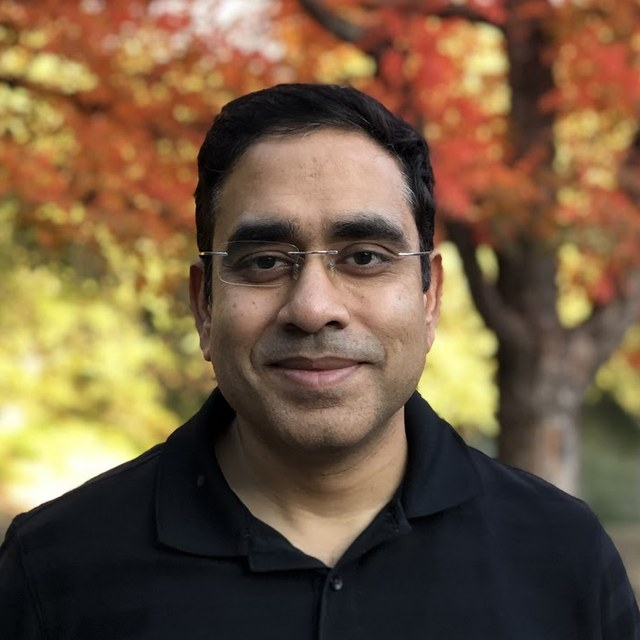
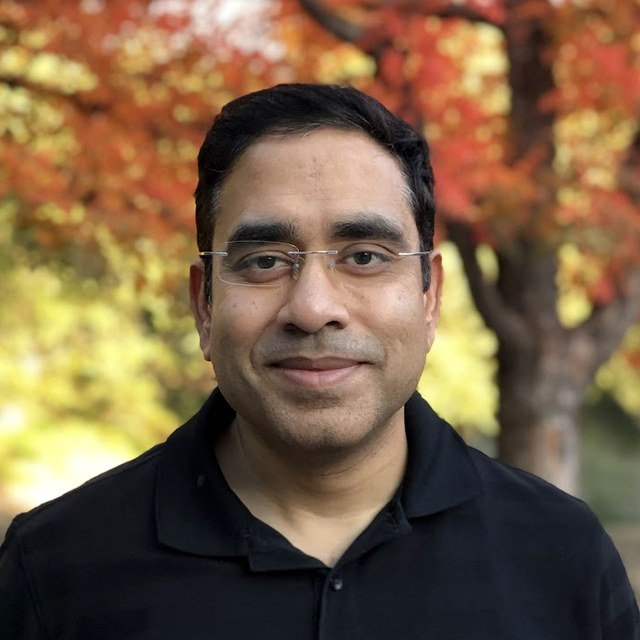
Reviewer feedback: clear purpose + 5-year goals, name under photo, brighter portrait, no motion, direct speaking CTA, newsletter preview, confident About, Kairos page fonts/animation, Blackjack intro
Claude-Session: https://claude.ai/code/session_019nBxjuhJRhuWGf18P2WYHr

Changed region(s): [[0.2812, 0.3438, 0.625, 0.5312]]

diff --git a/public/index.html b/public/index.html
@@ -397,10 +397,7 @@ strong { font-weight: 600; color: var(--text); }
   .project, .talk { padding: 24px; }
   .creds-list { grid-template-columns: 1fr; }
 }
-@media (prefers-reduced-motion: no-preference) {
-  .reveal { opacity: 0; transform: translateY(12px); transition: opacity 0.6s ease, transform 0.6s ease; }
-  .reveal.in { opacity: 1; transform: none; }
-}
+
 
 /* ─── HERO PORTRAIT: CIRCLE ─────── */
 .hero { padding: 128px 0 84px; }
@@ -423,7 +420,7 @@ strong { font-weight: 600; color: var(--text); }
 .nav-monogram { display: inline-flex; align-items: center; gap: 10px; font-size: 1.12rem; letter-spacing: 0.005em; color: var(--text); }
 .nav-monogram:hover { color: var(--text); }
 .nav-monogram .brand-mark { width: 30px; height: 30px; flex-shrink: 0; transition: transform 0.4s ease; }
-.nav-monogram:hover .brand-mark { transform: rotate(-12deg); }
+
 @media (max-width: 720px) { .nav-monogram { font-size: 1.05rem; } .nav-monogram .brand-mark { width: 26px; height: 26px; } }
 
 /* ─── PLUG ──────────────────────── */
@@ -431,6 +428,25 @@ strong { font-weight: 600; color: var(--text); }
 .plug h3 { font-family: var(--serif); font-weight: 600; font-size: 1.5rem; margin: 6px 0 8px; color: var(--text); }
 .plug p { color: var(--body); font-size: 1rem; max-width: 640px; }
 @media (max-width: 720px) { .plug { grid-template-columns: 1fr; padding: 22px; } }
+
+/* ─── v4 FEEDBACK FIXES ─────────── */
+.section { padding: 80px 0; }
+.hero { padding: 120px 0 64px; }
+.lenses { padding: 0 0 80px; }
+.hero-id { margin-top: 18px; }
+.hero-roles { margin-bottom: 18px; }
+.hero-id h1 { font-family: var(--serif); font-weight: 600; font-size: 1.45rem; color: var(--text); margin: 0 0 4px; }
+.hero-id .hero-creds { margin-top: 0; }
+.purpose { border-top: 1px solid var(--line); padding-top: 44px; margin-bottom: 8px; max-width: 820px; }
+.purpose h2 { font-family: var(--serif); font-weight: 600; font-size: clamp(1.6rem, 3vw, 2.1rem); line-height: 1.25; margin: 10px 0 12px; color: var(--text); }
+.purpose p { color: var(--muted); }
+.lens-grid { border-top: 0; margin-top: 18px; }
+.lens p strong { display: block; margin-bottom: 6px; }
+.sub-actions { display: flex; gap: 12px; justify-content: center; flex-wrap: wrap; }
+@media (max-width: 900px) {
+  .hero-id { margin-top: 0; }
+  .hero-id h1 { font-size: 1.2rem; }
+}
 </style>
 </head>
 
@@ -467,21 +483,22 @@ strong { font-weight: 600; color: var(--text); }
   <div class="wrap hero-grid">
     <div>
       <div class="eyebrow hero-roles"><span>Pricing Strategist</span><span>Student of History</span><span>Builder with AI</span></div>
-      <h1>Puneet Srivastava</h1>
       <p class="hero-statement">Knowledge is getting cheaper. <em>Judgment isn't.</em></p>
       <p class="hero-lede">
-        For twenty years I have asked one question: what is this actually worth?
-        I ask it of products as a pricing strategist, of people's work as AI
-        rewrites it, and of history, where most of our answers were tested first.
+        I help leaders and professionals answer the question AI is making urgent:
+        <strong>what is our work actually worth?</strong> I have spent twenty years
+        pricing products at Dell and Cohesity. Now I speak, write, and build tools
+        on how judgment, not knowledge, will set the value of people and businesses.
       </p>
       <div class="hero-actions">
         <a href="#framework" class="btn btn-primary">Explore the framework</a>
-        <a href="#speaking" class="btn btn-ghost">Invite me to speak</a>
+        <a href="mailto:contact@puneetsrivastava.com?subject=Speaking%20invitation&body=Hi%20Puneet%2C%0A%0AOrganization%3A%20%0AAudience%20and%20size%3A%20%0ADate%20and%20format%3A%20%0AWhat%20we%20hope%20they%20take%20away%3A%20" class="btn btn-ghost">Invite me to speak</a>
       </div>
     </div>
     <div class="hero-portrait">
       <div class="portrait-frame"><img src="/portrait-face.jpg" alt="Portrait of Puneet Srivastava" width="300" height="300"></div>
-      <div class="hero-creds">IIT Kanpur · IIM Ahmedabad<br>Dell · Cohesity · 20 years in pricing</div>
+      <div class="hero-id"><h1>Puneet Srivastava</h1>
+      <div class="hero-creds">IIT Kanpur · IIM Ahmedabad<br>Dell · Cohesity · 20 years in pricing</div></div>
     </div>
   </div>
 </header>
@@ -489,24 +506,28 @@ strong { font-weight: 600; color: var(--text); }
 <!-- THREE LENSES -->
 <section class="lenses" aria-label="Three lenses">
   <div class="wrap">
-    <p class="lens-intro reveal">One question, <strong>three lenses.</strong></p>
+    <div class="purpose">
+      <div class="eyebrow">Why this site exists</div>
+      <h2>Over the next five years, I want to help people see what their work is really worth, and act on it</h2>
+      <p>Three goals, one question. If you lead a team or teach a class, <a href="#speaking">invite me to speak</a>. If you are simply curious, <a href="#subscribe">read the newsletter</a>.</p>
+    </div>
     <div class="lens-grid">
       <div class="lens reveal">
         <div class="lens-num">I</div>
         <h3>Markets</h3>
-        <p>What a product is worth, and why most companies leave that answer to habit. Twenty years of pricing at Dell and Cohesity.</p>
+        <p><strong>Help companies price with judgment, not habit.</strong> Most pricing is inherited, not designed. Twenty years at Dell and Cohesity taught me how to fix that.</p>
         <a href="#writing" class="text-link">Pricing writing</a>
       </div>
       <div class="lens reveal">
         <div class="lens-num">II</div>
         <h3>Work</h3>
-        <p>What a person's work is worth once knowledge is free. The Knowledge Quadrant Framework, and the tools I build around it.</p>
+        <p><strong>Give professionals a clear map of what AI will cheapen and what will grow in value.</strong> That is the Knowledge Quadrant Framework, and the tools I build around it.</p>
         <a href="#framework" class="text-link">The framework</a>
       </div>
       <div class="lens reveal">
         <div class="lens-num">III</div>
         <h3>History</h3>
-        <p>How people decided what mattered long before us. From Akbar's revenue reform to Lucknow and Mauryan India.</p>
+        <p><strong>Bring history's lessons into boardrooms and classrooms.</strong> From Akbar's revenue reform to Mauryan India, most of our hard questions were tested long ago.</p>
         <a href="#history" class="text-link">History &amp; India</a>
       </div>
     </div>
@@ -584,7 +605,7 @@ strong { font-weight: 600; color: var(--text); }
         <ol>
           <li><div><a href="https://www.linkedin.com/pulse/knowledge-free-judgment-cost-you-25-years-puneet-srivastava-yd7yc/" target="_blank" rel="noopener noreferrer">Knowledge Is Free. Judgment Will Cost You 25 Years.</a><span class="note">The opening argument</span></div></li>
           <li><div><a href="https://www.linkedin.com/pulse/your-team-ten-becoming-three-you-one-them-puneet-srivastava-lpnec/" target="_blank" rel="noopener noreferrer">Your Team of Ten Is Becoming Three. Are You One of Them?</a><span class="note">Eight personas, mapped</span></div></li>
-          <li><div><span class="pending">The Judgment Paradox</span><span class="note">In progress. <a href="#subscribe">Subscribe</a> to read it first.</span></div></li>
+          <li><div><span class="pending">The Judgment Paradox</span><span class="note">In progress. <a href="#subscribe">Sign up free</a> to read it first, on October 13.</span></div></li>
         </ol>
       </div>
     </div>
@@ -596,7 +617,7 @@ strong { font-weight: 600; color: var(--text); }
   <div class="wrap">
     <div class="section-head reveal">
       <div class="eyebrow">The Lab</div>
-      <h2>I don't just write about AI. I build with it.</h2>
+      <h2>I don't just write about AI, I build with it</h2>
       <p>Nights-and-weekends products, each one testing an idea I care about. Some are polished. All are real.</p>
     </div>
     <div class="lab-grid">
@@ -653,7 +674,7 @@ strong { font-weight: 600; color: var(--text); }
       <article class="project reveal">
         <div class="project-head"><h3>Blackjack Bootcamp</h3><span class="status live">Live</span></div>
         <div class="kicker">Judgment under known odds.</div>
-        <p>A trainer that takes you from zero to table-ready: ten short lessons, an adaptive coach that deals you more of the hands you get wrong, timed tests with no hints, and a strategy chart heat-mapped with your own mistakes.</p>
+        <p>A trainer for the casino card game blackjack. It takes you from zero to table-ready: ten short lessons, an adaptive coach that deals you more of the hands you get wrong, timed tests with no hints, and a strategy chart heat-mapped with your own mistakes.</p>
         <p class="why">Why I built it: blackjack is the cleanest classroom for judgment I know. The math is settled; the discipline to follow it is the hard part.</p>
         <div class="project-foot">
           <span class="stack">6-deck basic strategy · Adaptive drills</span>
@@ -677,7 +698,7 @@ strong { font-weight: 600; color: var(--text); }
         <p class="why">Why I run them: an executive's opinion on AI should come from using it, not reading about it.</p>
         <div class="project-foot">
           <span class="stack">Ongoing experiments</span>
-          <a href="#subscribe" class="text-link">Get the notes</a>
+          <a href="#contact" class="text-link">Ask me about the results</a>
         </div>
       </article>
     </div>
@@ -697,7 +718,7 @@ strong { font-weight: 600; color: var(--text); }
   <div class="wrap">
     <div class="section-head reveal">
       <div class="eyebrow">Writing</div>
-      <h2>Essays on value, judgment, and what lasts.</h2>
+      <h2>Essays on value, judgment, and what lasts</h2>
     </div>
 
     <div class="featured reveal" id="history">
@@ -820,7 +841,7 @@ strong { font-weight: 600; color: var(--text); }
   <div class="wrap">
     <div class="section-head reveal">
       <div class="eyebrow">Speaking &amp; Workshops</div>
-      <h2>Talks that leave a room arguing, in a good way.</h2>
+      <h2>Talks that leave a room arguing, in a good way</h2>
       <p>I speak to leadership teams, pricing and commercial teams, and MBA classrooms. Every talk pairs a clear framework with stories people remember, often from history.</p>
     </div>
 
@@ -857,7 +878,7 @@ strong { font-weight: 600; color: var(--text); }
       <div class="format"><h4>Guest lecture</h4><p>For MBA and executive-education classrooms, with a case discussion.</p></div>
     </div>
 
-    <div class="speak-cta reveal">
+    <div class="speak-cta reveal" id="invite">
       <p>I take a limited number of invitations each quarter. Tell me about your audience and what you want them to leave with.</p>
       <a href="mailto:contact@puneetsrivastava.com?subject=Speaking%20invitation&body=Hi%20Puneet%2C%0A%0AOrganization%3A%20%0AAudience%20and%20size%3A%20%0ADate%20and%20format%3A%20%0AWhat%20we%20hope%20they%20take%20away%3A%20" class="btn btn-primary">Invite me to speak</a>
     </div>
@@ -869,32 +890,28 @@ strong { font-weight: 600; color: var(--text); }
   <div class="wrap about-grid">
     <div class="about-text reveal">
       <div class="eyebrow" style="margin-bottom:18px">About</div>
-      <p class="about-lead">I did not set out to become a pricing strategist. I set out to understand how things work, and what they are worth.</p>
+      <p class="about-lead">I believe the next decade will reprice human work faster than any decade before it. I have spent my career on the pricing side of that question.</p>
       <p>
-        Since 2022 I have led pricing strategy at Cohesity through its move to
-        cloud-native SaaS. The Knowledge Quadrant Framework came directly from that
-        work: watching knowledge get commoditized in real time and needing precise
-        language for what was happening.
+        My first lesson came at 22. At Infosys I built trade-processing systems for
+        Goldman Sachs, and I watched sophisticated work become routine the moment
+        someone found the repeatable pattern. That was the offshore wave. AI is the
+        second, and much bigger, one. It is why I study it from the inside.
       </p>
       <p>
-        Before that, Dell was my fifteen-year graduate school. Across India and
-        Round Rock, Texas, I built prediction models, recommendation systems, and
-        pricing architectures under some of the largest commercial decisions the
-        company made. Earlier, Coca-Cola taught me what no engineering curriculum
-        does: the gap between what something costs and what someone pays is a
-        human problem, not a math one.
+        Coca-Cola taught me that the gap between what something costs and what
+        someone pays is a human problem, not a math one. Fifteen years at Dell taught
+        me to build the models and pricing architecture beneath very large commercial
+        decisions. Since 2022 I have led pricing strategy at Cohesity.
       </p>
       <p>
-        I started at Infosys at 22, building trade-processing systems for Goldman
-        Sachs, and watched sophisticated work get systematized the moment someone
-        found the repeatable pattern. The offshore model was the original
-        displacement engine. AI is the second one, and I intend to understand it
-        from the inside.
+        Those two threads, pricing products and the repricing of human work, meet in
+        the Knowledge Quadrant Framework. For the next five years my goal is to teach
+        it: in leadership rooms, in MBA classrooms, and in one essay every two weeks.
       </p>
       <p>
-        Outside work, I read and write history. I am writing <em>The Arithmetic of
-        Mercy</em>, a novel set in Mauryan India, and I keep returning to Lucknow
-        and Awadh, where so many of my own stories begin.
+        History keeps me honest. I am writing <em>The Arithmetic of Mercy</em>, a novel
+        set in Mauryan India, and I keep returning to Lucknow and Awadh, where so many
+        of my own stories begin.
       </p>
       <div class="creds-list">
         <div><strong>IIT Kanpur</strong>B.Tech, Materials Science, CS minor</div>
@@ -921,9 +938,12 @@ strong { font-weight: 600; color: var(--text); }
   <div class="wrap">
     <div class="eyebrow">What It&rsquo;s Worth &middot; The newsletter</div>
     <h2>An essay every two weeks on value, judgment, and history.</h2>
-    <p>New writing, Lab notes, and Part 3 of the Knowledge Quadrant series before it goes anywhere else. No noise.</p>
-    <a href="https://whatitsworthletter.substack.com/subscribe" class="btn btn-primary" target="_blank" rel="noopener noreferrer">Subscribe free</a>
-    <p style="margin:14px auto 0;font-size:0.88rem">Free, on Substack. Unsubscribe anytime.</p>
+    <p>The first issue, on October 13, is Part 3 of the Knowledge Quadrant series. Want to see the style first? Read a recent essay below.</p>
+    <div class="sub-actions">
+      <a href="https://whatitsworthletter.substack.com/subscribe" class="btn btn-primary" target="_blank" rel="noopener noreferrer">Sign up free</a>
+      <a href="https://www.linkedin.com/pulse/failed-program-ran-empire-300-years-puneet-srivastava-rvgcc/" class="btn btn-ghost" target="_blank" rel="noopener noreferrer">Read a sample essay</a>
+    </div>
+    <p style="margin:14px auto 0;font-size:0.88rem">Free, always. Every two weeks. Unsubscribe anytime.</p>
   </div>
 </section>
 
@@ -933,7 +953,7 @@ strong { font-weight: 600; color: var(--text); }
     <div class="reveal">
       <div class="section-head" style="margin-bottom:24px">
         <div class="eyebrow">Contact &amp; Advisory</div>
-        <h2>Good problems are worth talking about.</h2>
+        <h2>Good problems are worth talking about</h2>
       </div>
       <p>
         I have spent twenty years inside complex commercial problems: pricing built

diff --git a/public/kairos/index.html b/public/kairos/index.html
@@ -14,7 +14,7 @@
 
 <link rel="preconnect" href="https://fonts.googleapis.com">
 <link rel="preconnect" href="https://fonts.gstatic.com" crossorigin>
-<link href="https://fonts.googleapis.com/css2?family=Fraunces:opsz,wght@9..144,400;9..144,600&family=IBM+Plex+Mono:wght@400;500&display=swap" rel="stylesheet">
+<link href="https://fonts.googleapis.com/css2?family=Inter:wght@400;500;600&family=Source+Serif+4:opsz,wght@8..60,400;8..60,600&display=swap" rel="stylesheet">
 
 <style>
   :root {
@@ -32,7 +32,7 @@
   body {
     background: var(--bg);
     color: var(--text);
-    font-family: -apple-system, BlinkMacSystemFont, "Segoe UI", Roboto, sans-serif;
+    font-family: "Inter", -apple-system, BlinkMacSystemFont, "Segoe UI", Roboto, sans-serif;
     font-size: 17px;
     line-height: 1.65;
     -webkit-font-smoothing: antialiased;
@@ -49,7 +49,7 @@
     padding: 28px 0;
   }
   header a {
-    font-family: "IBM Plex Mono", monospace;
+    font-family: "Inter", -apple-system, sans-serif;
     font-size: 12px;
     letter-spacing: 0.14em;
     text-transform: uppercase;
@@ -63,7 +63,7 @@
 
   .status {
     display: inline-block;
-    font-family: "IBM Plex Mono", monospace;
+    font-family: "Inter", -apple-system, sans-serif;
     font-size: 12px;
     letter-spacing: 0.12em;
     color: var(--gold);
@@ -74,7 +74,7 @@
   }
 
   h1 {
-    font-family: "Fraunces", serif;
+    font-family: "Source Serif 4", Georgia, serif;
     font-weight: 600;
     font-size: clamp(52px, 10vw, 84px);
     line-height: 1.02;
@@ -89,7 +89,7 @@
     max-width: 34ch;
   }
   .lede em {
-    font-family: "Fraunces", serif;
+    font-family: "Source Serif 4", Georgia, serif;
     font-style: italic;
     color: var(--gold);
   }
@@ -120,26 +120,20 @@
     top: -14px;
     left: 38%;
     transform: translateX(-50%);
-    font-family: "IBM Plex Mono", monospace;
+    font-family: "Inter", -apple-system, sans-serif;
     font-size: 11px;
     letter-spacing: 0.1em;
     color: var(--muted);
     white-space: nowrap;
   }
-  @media (prefers-reduced-motion: no-preference) {
-    .moment .node { animation: settle 1.4s cubic-bezier(.2,.8,.2,1) both; }
-    @keyframes settle {
-      from { left: 8%; opacity: 0; }
-      to   { left: 38%; opacity: 1; }
-    }
-  }
+  
 
   /* ---------- launch ---------- */
   .launch { padding: 40px 0 8px; }
 
   .btn {
     display: inline-block;
-    font-family: "IBM Plex Mono", monospace;
+    font-family: "Inter", -apple-system, sans-serif;
     font-size: 15px;
     letter-spacing: 0.04em;
     color: var(--bg);
@@ -161,7 +155,7 @@
   .how { padding: 56px 0; }
 
   .how h2, .honest h2 {
-    font-family: "IBM Plex Mono", monospace;
+    font-family: "Inter", -apple-system, sans-serif;
     font-size: 12px;
     font-weight: 500;
     letter-spacing: 0.16em;
@@ -178,7 +172,7 @@
     padding: 18px 20px;
   }
   .step strong {
-    font-family: "Fraunces", serif;
+    font-family: "Source Serif 4", Georgia, serif;
     font-weight: 600;
     font-size: 19px;
     display: block;
@@ -203,7 +197,7 @@
     gap: 12px;
   }
   footer p, footer a {
-    font-family: "IBM Plex Mono", monospace;
+    font-family: "Inter", -apple-system, sans-serif;
     font-size: 12.5px;
     color: var(--muted);
     text-decoration: none;

diff --git a/public/blackjack/index.html b/public/blackjack/index.html
@@ -255,6 +255,7 @@ canvas#progressChart{ width:100%; max-width:100%; }
 .session-summary-row{ display:flex; justify-content:space-between; padding:8px 0; border-bottom:1px solid var(--line); }
 .session-summary-row:last-child{ border-bottom:none; }
 a.link{ color: var(--brass-bright); text-decoration: underline; cursor:pointer; }
+a.link:hover{ color: var(--cream); }
 </style>
 </head>
 <body>
@@ -877,7 +878,8 @@ function renderDashboard(){
     <div style="display:flex;justify-content:space-between;align-items:flex-start;flex-wrap:wrap;gap:12px;">
       <div>
         <h1>Blackjack Bootcamp</h1>
-        <p style="margin-bottom:0;">Zero to table-ready in about two weeks.</p>
+        <p style="margin-bottom:6px;">A free trainer for the casino card game <strong style="color:var(--cream)">blackjack</strong>. It teaches "basic strategy": the mathematically best move for every hand you can be dealt.</p>
+        <p style="margin-bottom:0;">Never played? Start with <a class="link" onclick="navigate('lesson-detail',{lessonId:'objective'})">Lesson 1 (two minutes)</a>. Know the rules? Jump into the <a class="link" onclick="navigate('coach')">Coach</a> and practise real hands.</p>
       </div>
       <div>${milestoneBadgeHtml(milestone)}</div>
     </div>
